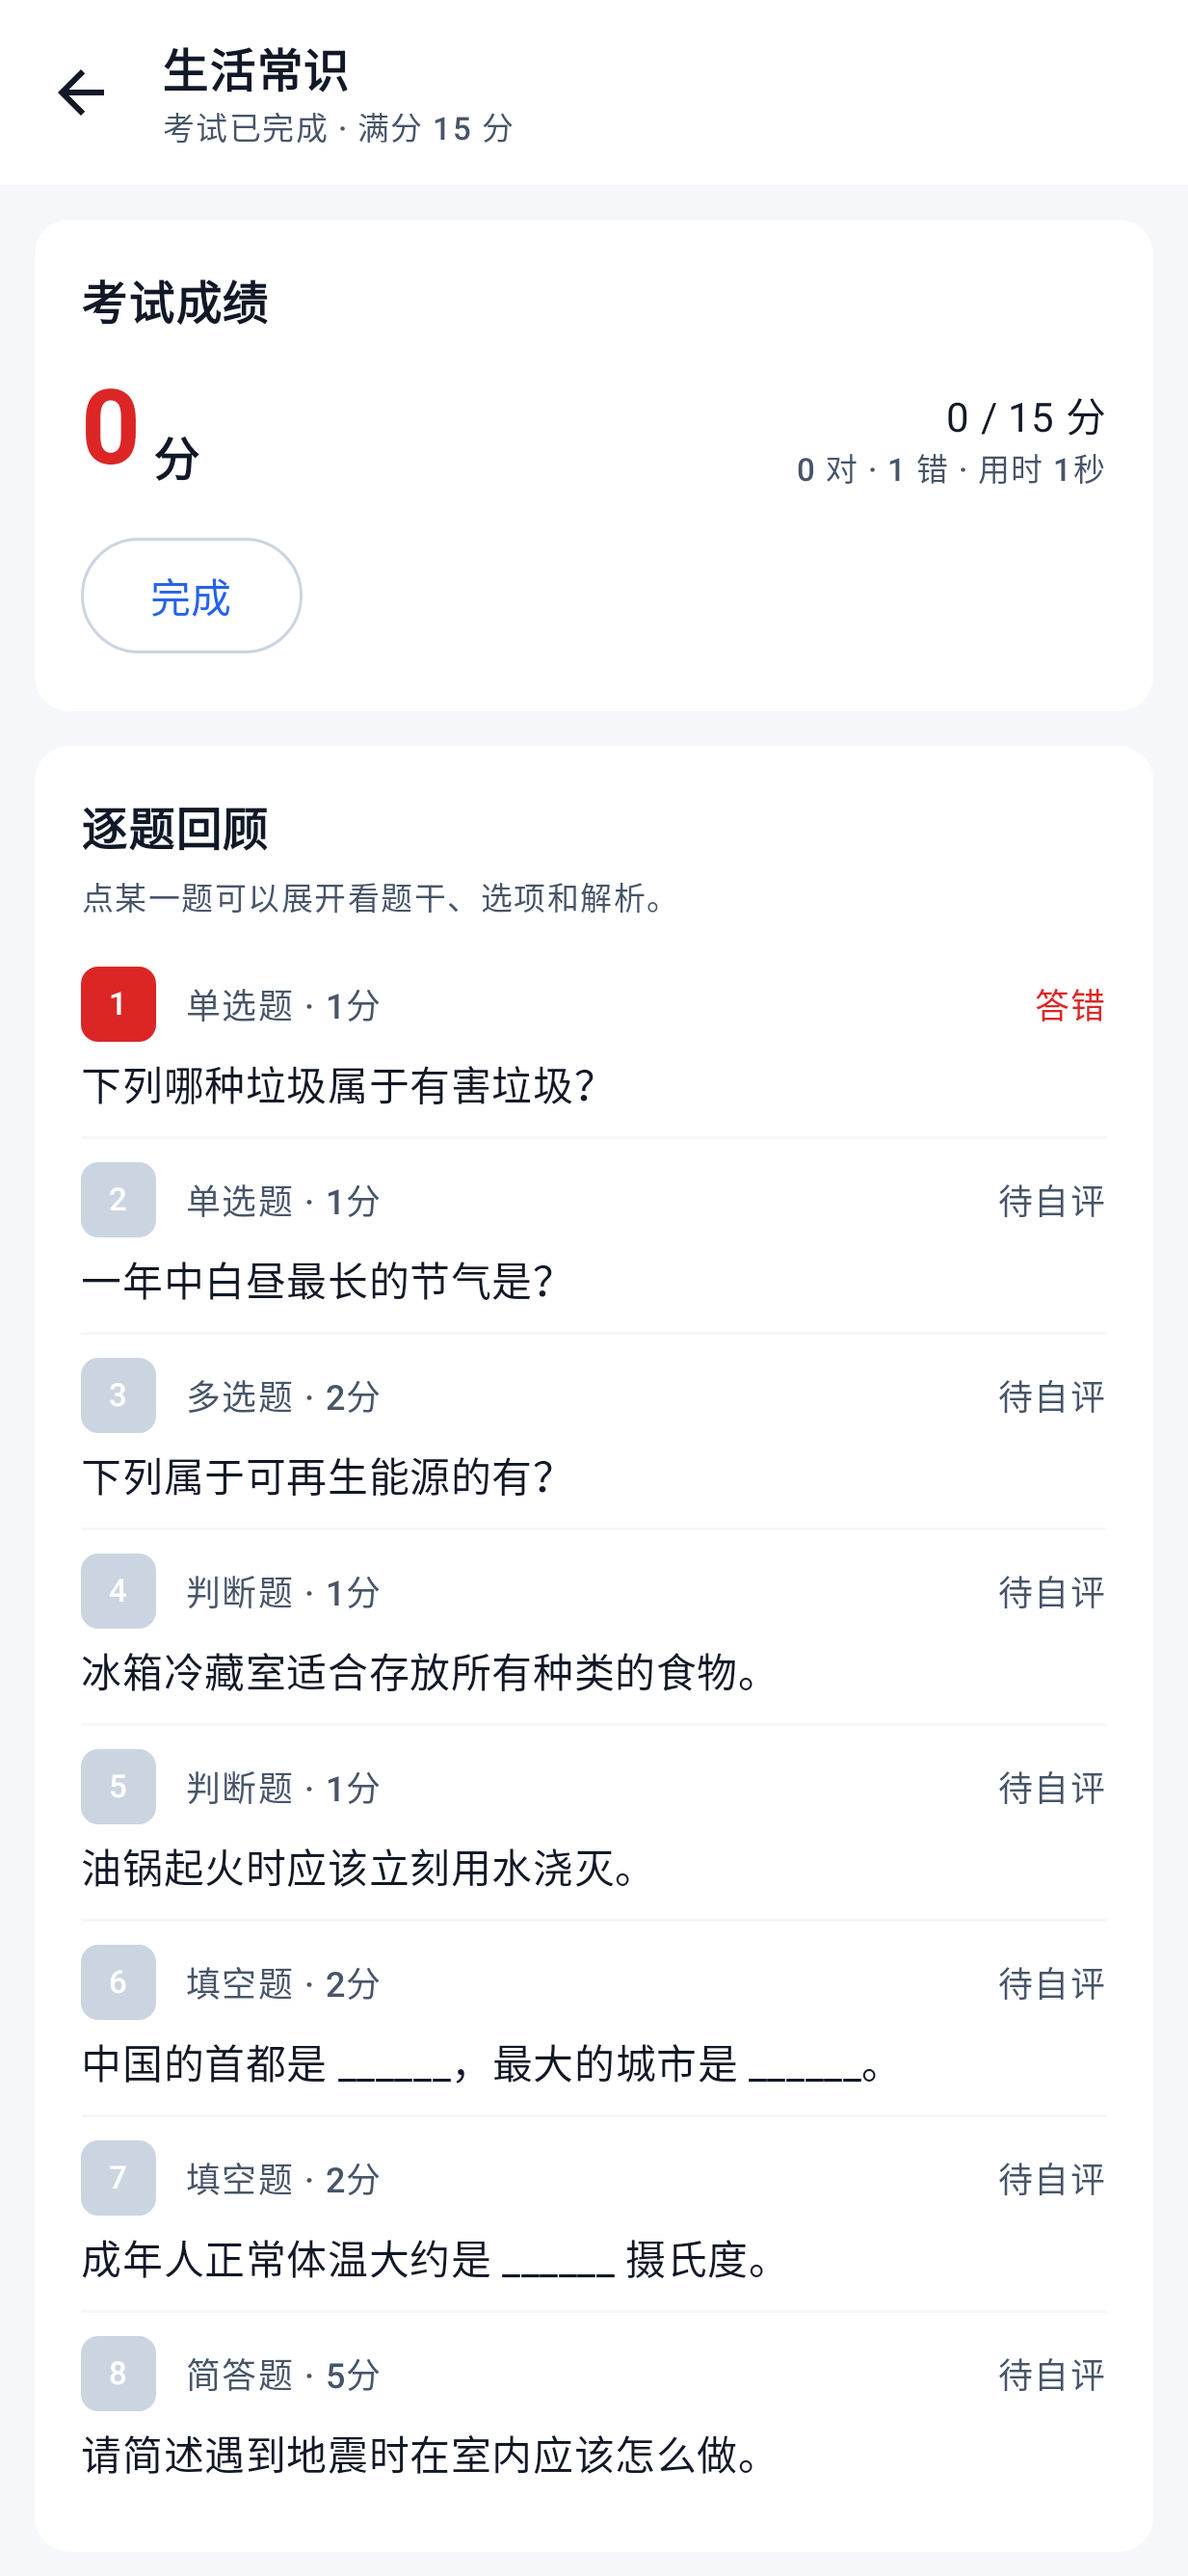
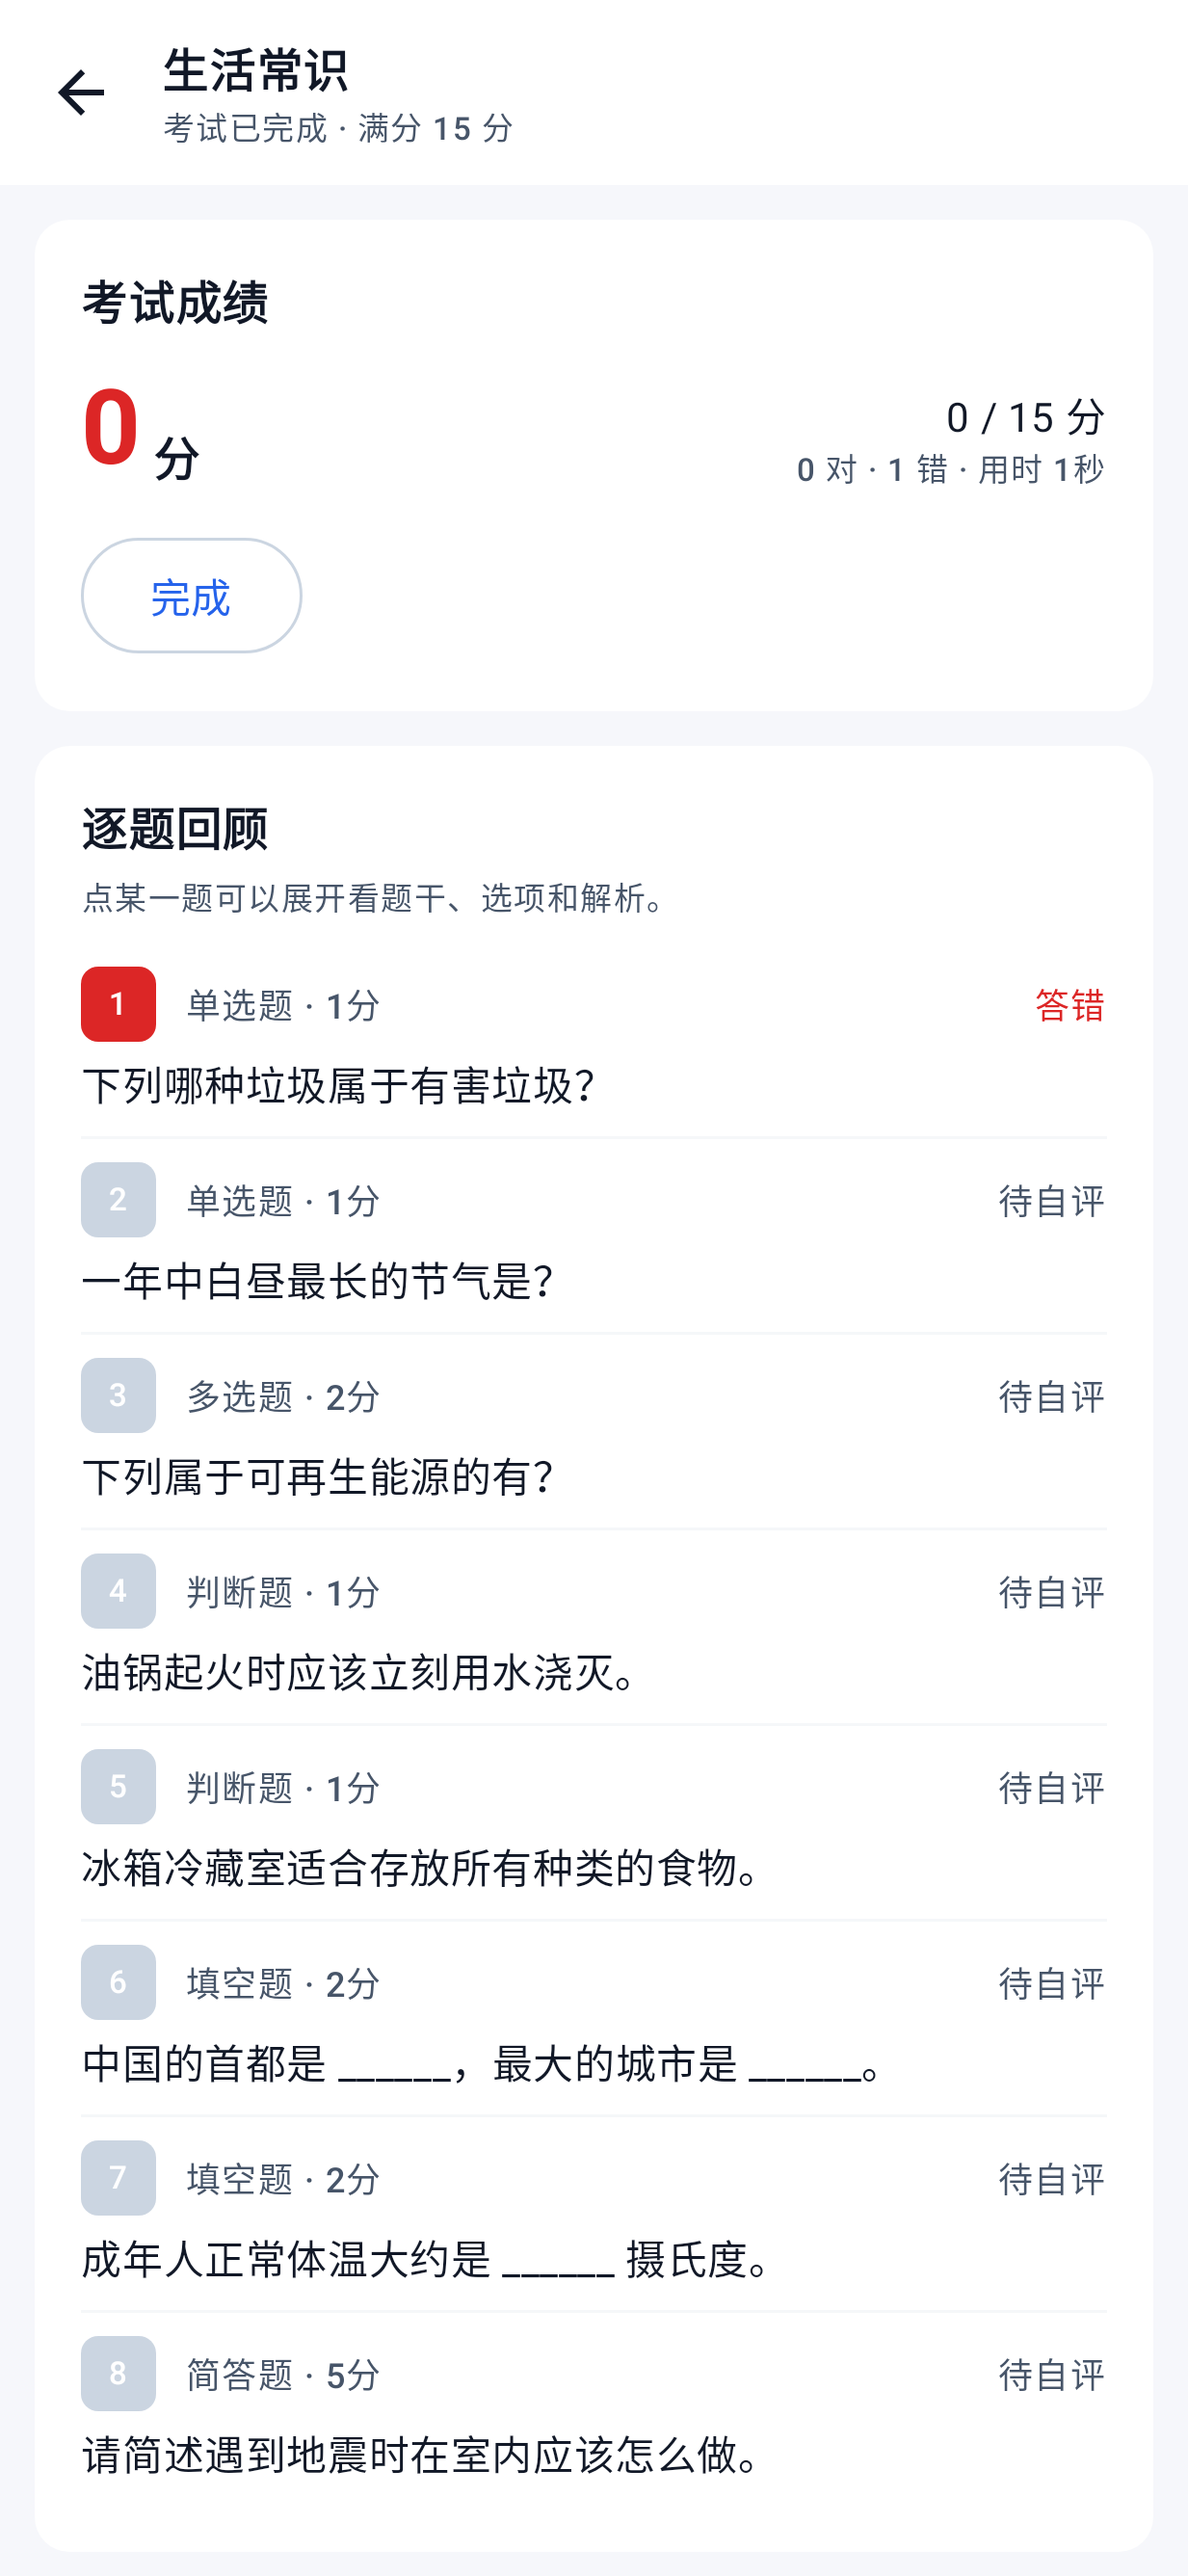
考试记录：进行中的记录改为继续考试，云端加载不再弹窗
- 进行中的记录不再提供「回顾题目」（回顾只对已交卷的记录开放），
  改为「继续考试」直接进考试页接着考，另提供「重新开始」放弃进度重抽一套卷
- 卡片上区分显示：进行中显示「进行中」徽标、已答题数与上次做到第几题
- 云端记录加载完成后不再弹窗提示，列表直接展示即可；
  只有确实有文件读不出来（数据可能不完整）时才提示一次
- 「全部用户」为空时交由页面空状态展示，不再额外弹窗

Changed region(s): [[0.0616, 0.7142, 0.6164, 0.7452], [0.0616, 0.621, 0.6164, 0.6521]]

diff --git a/app/src/main/java/com/xiaosiqi/quizbank/ui/exam/ExamRecordsScreen.kt b/app/src/main/java/com/xiaosiqi/quizbank/ui/exam/ExamRecordsScreen.kt
@@ -6,6 +6,7 @@ import androidx.compose.foundation.clickable
 import androidx.compose.foundation.layout.Arrangement
 import androidx.compose.foundation.layout.Box
 import androidx.compose.foundation.layout.Column
+import androidx.compose.foundation.layout.PaddingValues
 import androidx.compose.foundation.layout.Row
 import androidx.compose.foundation.layout.Spacer
 import androidx.compose.foundation.layout.fillMaxSize
@@ -192,6 +193,14 @@ class ExamRecordsViewModel(private val container: AppContainer) : ViewModel() {
         }
     }
 
+    /** 放弃当前进度重新考：先删掉进行中的记录，再让调用方跳进考试页（会重新抽卷）。 */
+    fun restartExam(record: ExamRecord, onReady: () -> Unit) {
+        viewModelScope.launch {
+            withContext(Dispatchers.IO) { container.exams.deleteLocal(record.localId) }
+            onReady()
+        }
+    }
+
     fun deleteRecord(record: ExamRecord) {
         viewModelScope.launch {
             withContext(Dispatchers.IO) { container.exams.deleteLocal(record.localId) }
@@ -210,11 +219,14 @@ class ExamRecordsViewModel(private val container: AppContainer) : ViewModel() {
                             loading = false,
                             remote = result.records,
                             remoteSummary = ExamSummary.of(result.records),
-                            message = buildString {
-                                append("共读到 ${result.records.size} 条考试记录")
-                                if (result.failed > 0) append("，${result.failed} 个文件解析失败")
-                                if (result.errors.isNotEmpty()) append("\n" + result.errors.joinToString("\n"))
-                            },
+                            // 加载成功不弹窗，列表出来就行；
+                            // 只有真有文件读不出来（数据可能不完整）才提示一次
+                            message = if (result.failed > 0) {
+                                buildString {
+                                    append("有 ${result.failed} 个成绩文件没能读取")
+                                    if (result.errors.isNotEmpty()) append("：\n" + result.errors.joinToString("\n"))
+                                }
+                            } else null,
                         )
                     }
                 }
@@ -232,7 +244,6 @@ class ExamRecordsViewModel(private val container: AppContainer) : ViewModel() {
                             loadedTabs = it.loadedTabs + RecordTab.ALL_USERS,
                             loading = false,
                             users = users,
-                            message = if (users.isEmpty()) "成绩目录下还没有任何用户的考试记录。" else null,
                         )
                     }
                 }
@@ -279,6 +290,14 @@ fun ExamRecordsScreen(container: AppContainer, nav: NavController) {
         return
     }
 
+    // 进行中的记录不回顾题目，直接进考试页接着考（考试页会自动恢复那条记录）
+    val continueExam: (ExamRecord) -> Unit = { record ->
+        nav.navigate(com.xiaosiqi.quizbank.ui.Routes.exam(record.bankId))
+    }
+    val restartExam: (ExamRecord) -> Unit = { record ->
+        vm.restartExam(record) { nav.navigate(com.xiaosiqi.quizbank.ui.Routes.exam(record.bankId)) }
+    }
+
     Scaffold(
         topBar = {
             TopAppBar(
@@ -318,9 +337,9 @@ fun ExamRecordsScreen(container: AppContainer, nav: NavController) {
             }
 
             when (state.tab) {
-                ExamRecordsViewModel.RecordTab.LOCAL -> LocalTab(state, vm)
-                ExamRecordsViewModel.RecordTab.CLOUD -> RemoteTab(state, vm)
-                ExamRecordsViewModel.RecordTab.ALL_USERS -> AllUsersTab(state, vm)
+                ExamRecordsViewModel.RecordTab.LOCAL -> LocalTab(state, vm, continueExam, restartExam)
+                ExamRecordsViewModel.RecordTab.CLOUD -> RemoteTab(state, vm, continueExam, restartExam)
+                ExamRecordsViewModel.RecordTab.ALL_USERS -> AllUsersTab(state, vm, continueExam, restartExam)
             }
         }
     }
@@ -337,7 +356,10 @@ fun ExamRecordsScreen(container: AppContainer, nav: NavController) {
 }
 
 @Composable
-private fun LocalTab(state: ExamRecordsViewModel.UiState, vm: ExamRecordsViewModel) {
+private fun LocalTab(state: ExamRecordsViewModel.UiState, vm: ExamRecordsViewModel,
+    onContinue: (ExamRecord) -> Unit,
+    onRestart: (ExamRecord) -> Unit,
+) {
     if (state.loading) return LoadingBox("正在读取本机记录…")
     if (state.local.isEmpty()) {
         return EmptyState(
@@ -357,13 +379,18 @@ private fun LocalTab(state: ExamRecordsViewModel.UiState, vm: ExamRecordsViewMod
                 onOpen = { vm.openDetail(record) },
                 onUpload = if (state.canUpload) ({ vm.uploadOne(record) }) else null,
                 onDelete = { vm.deleteRecord(record) },
+                onContinue = { onContinue(record) },
+                onRestart = { onRestart(record) },
             )
         }
     }
 }
 
 @Composable
-private fun RemoteTab(state: ExamRecordsViewModel.UiState, vm: ExamRecordsViewModel) {
+private fun RemoteTab(state: ExamRecordsViewModel.UiState, vm: ExamRecordsViewModel,
+    onContinue: (ExamRecord) -> Unit,
+    onRestart: (ExamRecord) -> Unit,
+) {
     if (!state.canUpload) {
         return EmptyState(
             title = "还没有设置上传目录",
@@ -388,13 +415,21 @@ private fun RemoteTab(state: ExamRecordsViewModel.UiState, vm: ExamRecordsViewMo
             OutlinedButton(onClick = vm::loadRemote, modifier = Modifier.fillMaxWidth()) { Text("重新读取") }
         }
         items(state.remote, key = { it.remotePath }) { record ->
-            ExamRecordCard(record = record, onOpen = { vm.openDetail(record) })
+            ExamRecordCard(
+                record = record,
+                onOpen = { vm.openDetail(record) },
+                onContinue = { onContinue(record) },
+                onRestart = { onRestart(record) },
+            )
         }
     }
 }
 
 @Composable
-private fun AllUsersTab(state: ExamRecordsViewModel.UiState, vm: ExamRecordsViewModel) {
+private fun AllUsersTab(state: ExamRecordsViewModel.UiState, vm: ExamRecordsViewModel,
+    onContinue: (ExamRecord) -> Unit,
+    onRestart: (ExamRecord) -> Unit,
+) {
     if (!state.canUpload) {
         return EmptyState(
             title = "还没有设置上传目录",
@@ -428,6 +463,8 @@ private fun AllUsersTab(state: ExamRecordsViewModel.UiState, vm: ExamRecordsView
                 ExamRecordCard(
                     record = record,
                     onOpen = { vm.openDetail(record) },
+                    onContinue = { onContinue(record) },
+                    onRestart = { onRestart(record) },
                     subtitle = record.user,
                 )
             }
@@ -530,8 +567,13 @@ private fun ExamRecordCard(
     onOpen: () -> Unit,
     onUpload: (() -> Unit)? = null,
     onDelete: (() -> Unit)? = null,
+    onContinue: (() -> Unit)? = null,
+    onRestart: (() -> Unit)? = null,
     subtitle: String = "",
 ) {
+    val inProgress = record.inProgress
+    // 没考完的：点卡片进考试接着考；已交卷的：点卡片回顾题目
+    val primaryAction = if (inProgress) (onContinue ?: onOpen) else onOpen
     Card(
         Modifier.fillMaxWidth(),
         shape = RoundedCornerShape(12.dp),
@@ -539,7 +581,7 @@ private fun ExamRecordCard(
     ) {
         Column(Modifier.padding(14.dp)) {
             Row(verticalAlignment = Alignment.CenterVertically) {
-                Column(Modifier.weight(1f).clickable(onClick = onOpen)) {
+                Column(Modifier.weight(1f).clickable(onClick = primaryAction)) {
                     Text(
                         record.bankName.ifBlank { "考试" },
                         style = MaterialTheme.typography.titleSmall,
@@ -564,31 +606,45 @@ private fun ExamRecordCard(
                             else MaterialTheme.colorScheme.error.copy(alpha = 0.12f)
                         )
                         .padding(horizontal = 10.dp, vertical = 6.dp)
-                        .clickable(onClick = onOpen)
+                        .clickable(onClick = primaryAction)
                 ) {
                     Text(
-                        "${record.percent} 分",
+                        if (inProgress) "进行中" else "${record.percent} 分",
                         style = MaterialTheme.typography.titleSmall,
                         fontWeight = FontWeight.Bold,
-                        color = if (record.percent >= 60) Color(0xFF16A34A) else MaterialTheme.colorScheme.error,
+                        color = if (inProgress) MaterialTheme.colorScheme.primary
+                        else if (record.percent >= 60) Color(0xFF16A34A) else MaterialTheme.colorScheme.error,
                     )
                 }
             }
             Spacer(Modifier.height(6.dp))
             Text(
-                "${record.scoredPoints}/${record.totalPoints} 分 · ${record.correctCount} 对 ${record.wrongCount} 错" +
-                    if (record.selfGraded > 0) " · ${record.selfGraded} 题待自评" else "",
+                if (inProgress)
+                    "已答 ${record.details.count { it.my.isNotBlank() }}/${record.questionCount} 题 · " +
+                        "上次做到第 ${record.index + 1} 题 · 满分 ${record.totalPoints} 分"
+                else
+                    "${record.scoredPoints}/${record.totalPoints} 分 · ${record.correctCount} 对 ${record.wrongCount} 错" +
+                        if (record.selfGraded > 0) " · ${record.selfGraded} 题待自评" else "",
                 style = MaterialTheme.typography.labelSmall,
                 color = MaterialTheme.colorScheme.onSurfaceVariant,
             )
             Spacer(Modifier.height(8.dp))
             Row(verticalAlignment = Alignment.CenterVertically, horizontalArrangement = Arrangement.spacedBy(8.dp)) {
-                TextButton(onClick = onOpen) { Text("回顾题目") }
-                if (onUpload != null) {
-                    TextButton(onClick = onUpload) { Text(if (record.uploaded) "重新上传" else "上传") }
+                if (inProgress) {
+                    Button(onClick = primaryAction, contentPadding = PaddingValues(horizontal = 14.dp, vertical = 6.dp)) {
+                        Text("继续考试")
+                    }
+                    if (onRestart != null) {
+                        TextButton(onClick = onRestart) { Text("重新开始") }
+                    }
+                } else {
+                    TextButton(onClick = onOpen) { Text("回顾题目") }
+                    if (onUpload != null) {
+                        TextButton(onClick = onUpload) { Text(if (record.uploaded) "重新上传" else "上传") }
+                    }
                 }
                 Spacer(Modifier.weight(1f))
-                if (record.uploaded) {
+                if (!inProgress && record.uploaded) {
                     Text(
                         "已上传",
                         style = MaterialTheme.typography.labelSmall,
